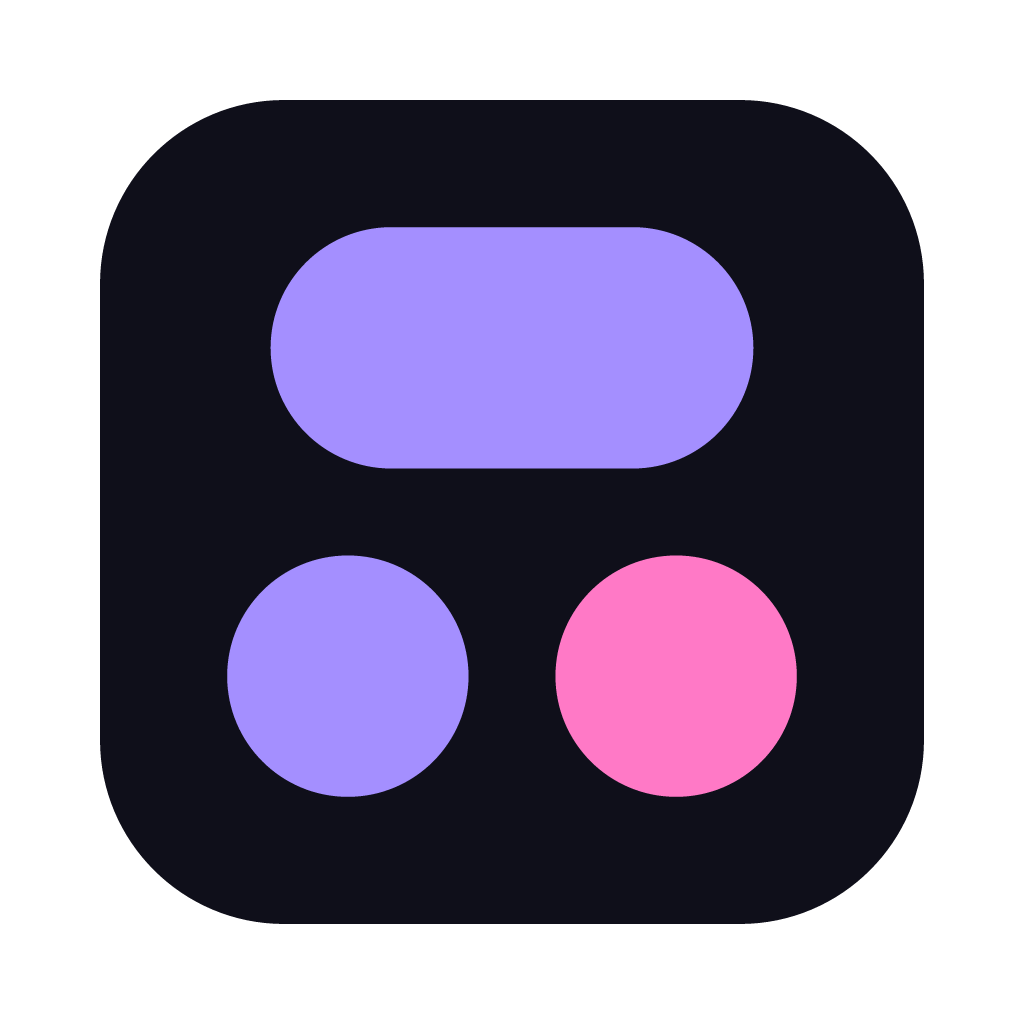
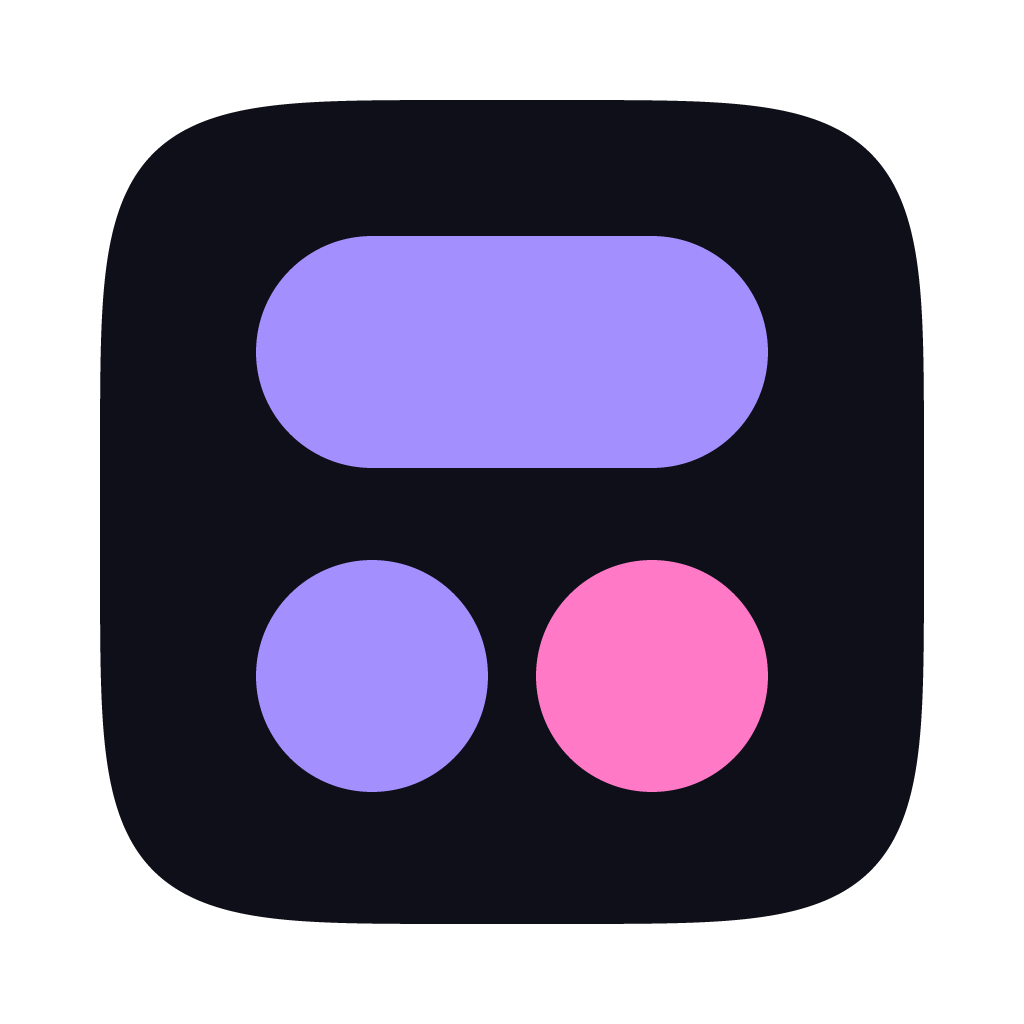
feat(brand): refine macOS decoder master (true squircle + centered glyph)
Replace the hand-built rounded-rect macOS master with the authored
superellipse squircle: transparent corners baked in, Morse-D glyph
re-proportioned and optically centered in the tile.

- masters/icon-macos.svg       vector source (squircle path + glyph)
- masters/icon-macos-1024.png   re-rendered from it

This is the pre-padded master `bun tauri icon` consumes for the decoder's
macOS .icns (tauri does not add macOS padding). README updated for the
two-source layout.

Part of #48. Advances #53.

Claude-Session: https://claude.ai/code/session_0137x96RNSQgQS8TCV59ScS2

diff --git a/packages/brand/README.md b/packages/brand/README.md
@@ -6,9 +6,10 @@ Canonical source of truth for all Morse suite brand assets.
 
 ```
 masters/   # SOURCE artwork — hand-authored inputs to icon generation
-  icon.svg                 # vector source of truth for the icon glyph
+  icon.svg                 # vector source — full-bleed master
   icon-1024.png            # full-bleed square master (web/PWA/iOS/og)
-  icon-macos-1024.png      # macOS-padded ~80% master (squircle tile, transparent margins)
+  icon-macos.svg           # vector source — macOS squircle master
+  icon-macos-1024.png      # macOS master: baked squircle, transparent corners
 icons/     # GENERATED outputs — do NOT hand-edit; fix the master & regenerate
   favicon.svg
   apple-touch-icon.png
@@ -26,8 +27,10 @@ social/    # og.png — Open Graph / social card image
 `icons/`: fix the master and regenerate. The split makes that rule structural rather than
 a convention to remember.
 
-`icon.svg` is the editable source; both PNG masters are rendered from it. Edit the SVG
-and re-render — don't touch the PNGs by hand.
+Each PNG master is rendered from its matching `.svg` source (`icon.svg` → `icon-1024.png`,
+`icon-macos.svg` → `icon-macos-1024.png`). The macOS source bakes the squircle
+(superellipse) tile with transparent corners directly into the artwork. Edit the SVGs and
+re-render — don't touch the PNGs by hand.
 
 The masters under `masters/` are what `bun tauri icon <master>.png` consumes to produce the
 decoder's OS icon set under `apps/decoder/src-tauri/icons/` — itself a generated artifact,